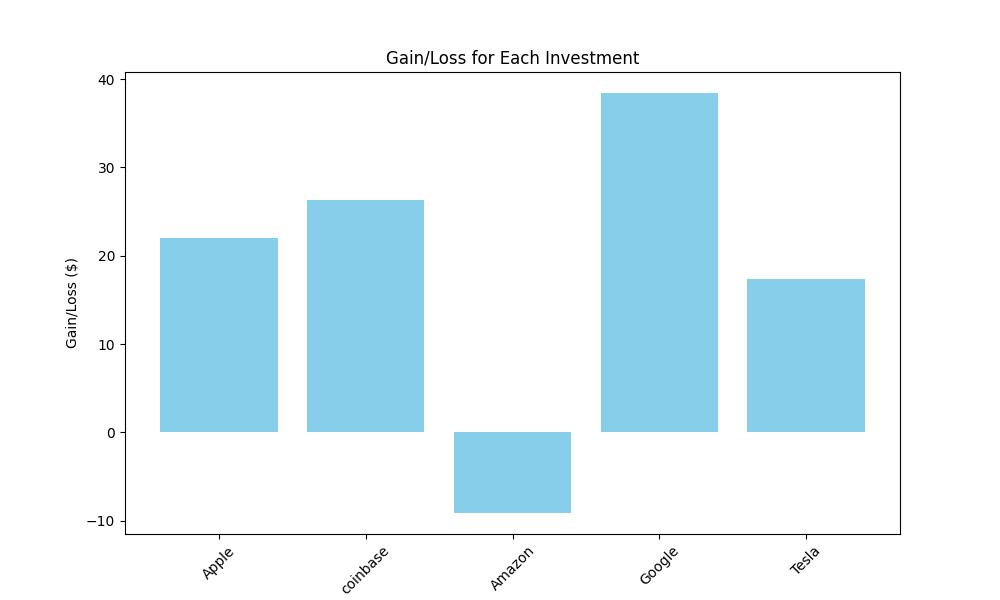
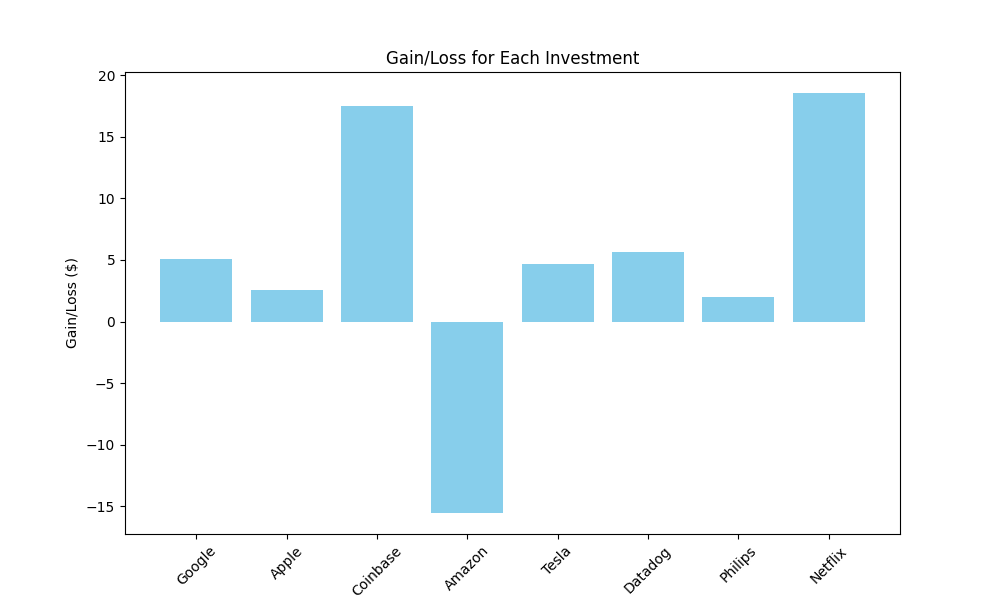
allow user to update their existing investments

diff --git a/main.py b/main.py
@@ -8,6 +8,7 @@ from db.db import create_user, add_investment_to_user, get_user_investments, sav
 from graph.graph import plot_bar_chart, decode_base64_to_image, encode_image_to_base64
 
 def main():
+    investment_data, existing_data = [], []
     username = input("What's your name? ")
     is_returning_user = input("Are you a returning user? (y/n): ").lower()
     if is_returning_user == 'y':
@@ -21,6 +22,11 @@ def main():
                 print(json.dumps(report, indent=4))
 
                 encoded_chart = get_chart_from_db(uid)
+
+                if isinstance(report, dict):
+                    existing_data = report.get("investments", [])
+                else:
+                    existing_data = []
 
                 if encoded_chart:
                     decode_base64_to_image(encoded_chart, 'graph/investment_distribution.png')
@@ -43,8 +49,6 @@ def main():
             print("Could not create user. Exiting.")
             return
 
-    investment_data = []
-
     print(f"Hello {username}, let's add your investment details. You can type 'exit' or 'quit' to finish at any time.")
     investment_date = datetime.datetime.now().strftime('%Y-%m-%d')
 
@@ -60,16 +64,14 @@ def main():
 
         investment_data.append(investment_info)
 
-        print(f"\nInvestment {len(investment_data)}:")
+        if len(existing_data) == 0:
+            print(f"\nInvestment {len(investment_data)}:")
+        else:
+            print(f"\nInvestment {len(investment_data) + len(existing_data)}:")
         print(f"  Entities: {investment_info['entities']}")
         print(f"  Amount: {investment_info['amount']}")
-
-    # Create the mock user report
-    user_report = {
-        "username": username,
-        "investments": []
-    }
-
+    
+    data = []
     for investment in investment_data:
         for entity in investment["entities"]:
             if entity[1] == "ORG":
@@ -88,7 +90,7 @@ def main():
                             formatted_market_cap = api.format_market_cap(market_cap) if market_cap else "N/A"
 
                             investment_entry = {
-                                "type": "stock",  # assuming all are stocks for now
+                                "type": "stock",  
                                 "amount": {"int": str(int(amount))},
                                 "name": entity[0],
                                 "ticker": symbol,
@@ -102,11 +104,21 @@ def main():
                                 "percentage_change": percentage_change,
                                 "market_cap": formatted_market_cap
                             }
-                            user_report["investments"].append(investment_entry)
+                            data.append(investment_entry)
                         else:
                             print(f"Could not fetch the price for {entity[0]} ({symbol})")
                 else:
                     print(f"Could not find stock symbol for {entity[0]}")
+
+    if len(existing_data) != 0:
+        investment_data = existing_data + data
+    else:
+        investment_data = data
+
+    user_report = {
+        "username": username,
+        "investments": investment_data
+    }
 
     file_name = f"{username}_investment_report.json"
 
